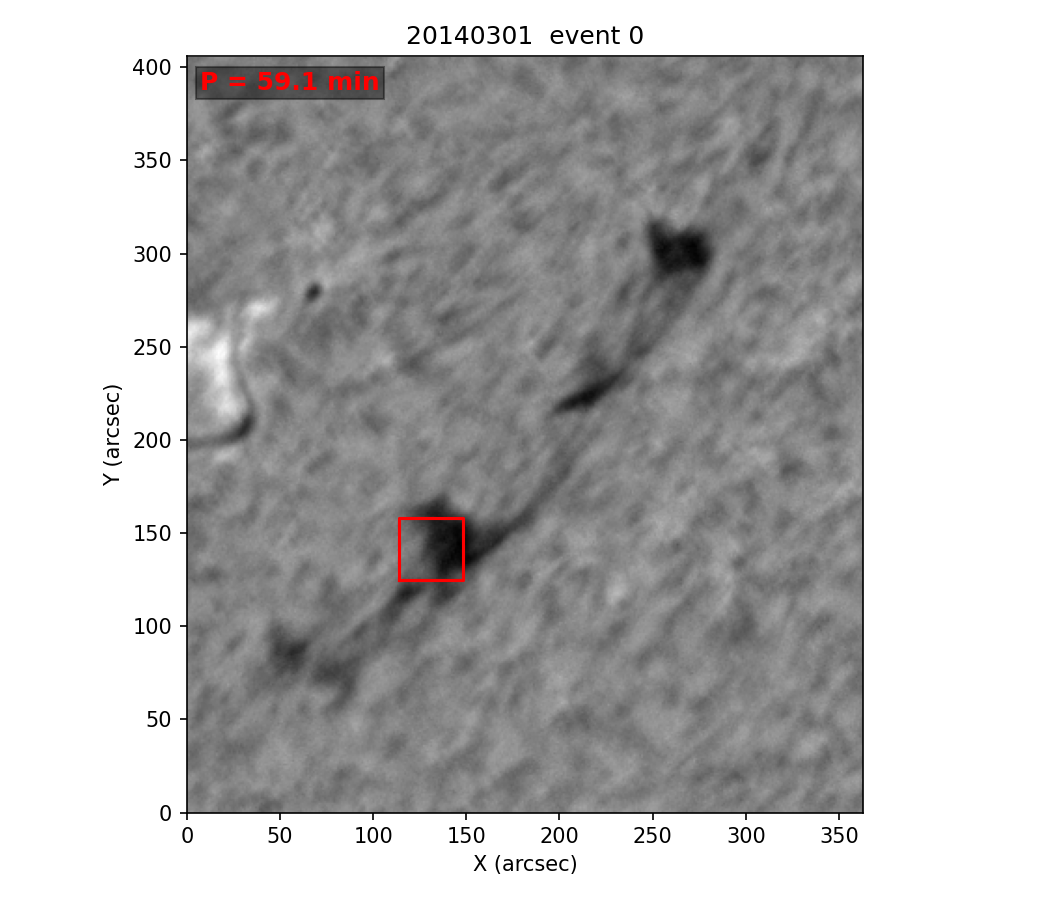
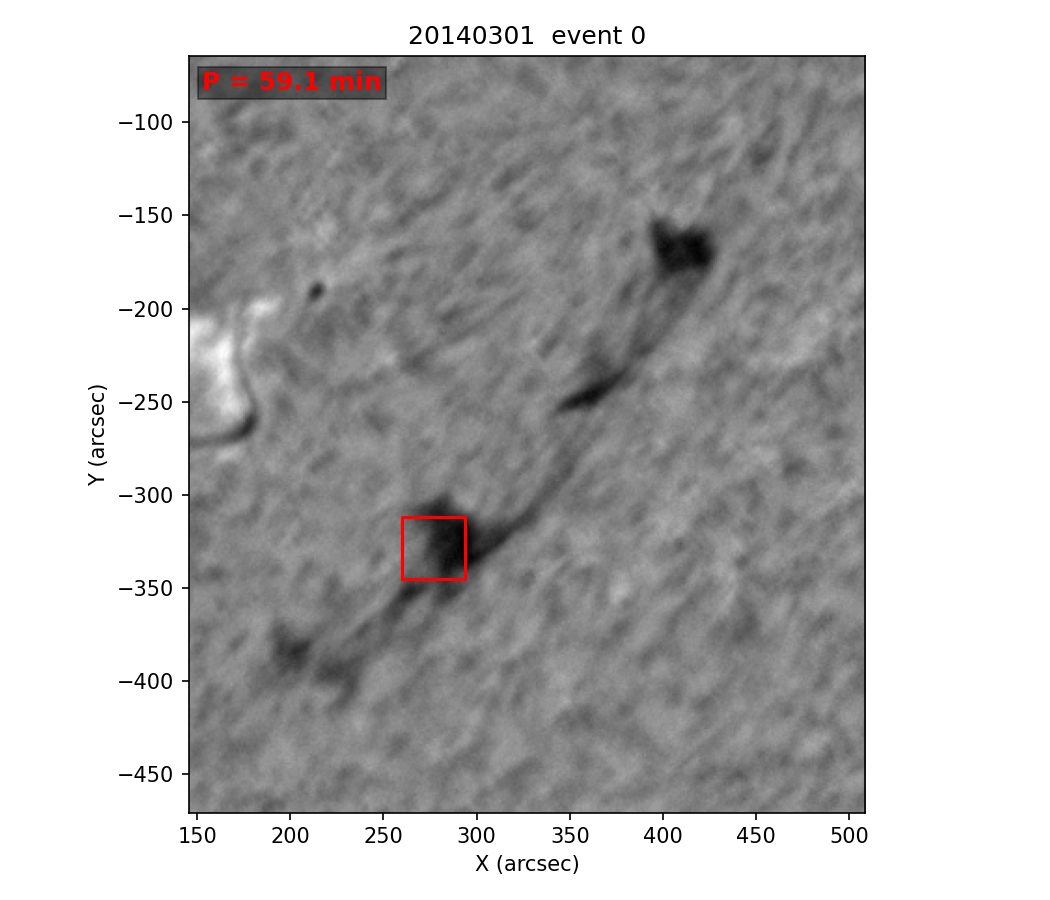
fixed result plots ticklabels

diff --git a/src/solfilosc/analysis/plotting.py b/src/solfilosc/analysis/plotting.py
@@ -9,7 +9,7 @@ matplotlib.use("Agg")
 import matplotlib.pyplot as plt
 import numpy as np
 
-from .constants import CNN_FREQUENCY_GRID
+from .constants import CNN_FREQUENCY_GRID, DISK_CENTER_PX
 
 def plot_full_disk_filaments_bboxes(outpath, image0, mask0, bboxes, *, title):
     fig = plt.figure(figsize=(10, 10))
@@ -215,17 +215,25 @@ def plot_period_family_spatial_maps(outdir, roi_img0, union_mask, scales, detect
 
 def plot_event(outpath, roi_image0, roi_bbox, event_bbox_full, period_min, *, day, event_index):
     """Plot one detected event: the filament cropped to its bbox with a red box marking the
-    event region and the period printed in red. Axes are labeled in arcsec (1 px = 1 arcsec)."""
+    event region and the period printed in red. Axes are heliocentric arcsec: 1 px = 1 arcsec
+    with disk-center pixel (DISK_CENTER_PX, DISK_CENTER_PX) at (0, 0) arcsec."""
     crop_H, crop_W = roi_image0.shape
 
-    # Event bbox is in full-disk pixels; convert to crop-relative coordinates.
-    e_min_y = event_bbox_full[0] - roi_bbox["min_y"]
-    e_min_x = event_bbox_full[1] - roi_bbox["min_x"]
-    e_max_y = event_bbox_full[2] - roi_bbox["min_y"]
-    e_max_x = event_bbox_full[3] - roi_bbox["min_x"]
+    # Crop origin in arcsec; the -0.5 in the extent keeps pixel centers at integer arcsec.
+    x0 = roi_bbox["min_x"] - DISK_CENTER_PX
+    y0 = roi_bbox["min_y"] - DISK_CENTER_PX
+
+    # Event bbox is in full-disk pixels; convert to arcsec.
+    e_min_y = event_bbox_full[0] - DISK_CENTER_PX
+    e_min_x = event_bbox_full[1] - DISK_CENTER_PX
+    e_max_y = event_bbox_full[2] - DISK_CENTER_PX
+    e_max_x = event_bbox_full[3] - DISK_CENTER_PX
 
     fig, ax = plt.subplots(figsize=(7, 6))
-    ax.imshow(roi_image0, cmap="gray", origin="lower")
+    ax.imshow(
+        roi_image0, cmap="gray", origin="lower",
+        extent=(x0 - 0.5, x0 + crop_W - 0.5, y0 - 0.5, y0 + crop_H - 0.5),
+    )
 
     ax.plot(
         [e_min_x, e_max_x, e_max_x, e_min_x, e_min_x],
@@ -240,8 +248,8 @@ def plot_event(outpath, roi_image0, roi_bbox, event_bbox_full, period_min, *, da
         bbox=dict(facecolor="black", alpha=0.4, pad=2.0),
     )
 
-    ax.set_xlim(0, crop_W)
-    ax.set_ylim(0, crop_H)
+    ax.set_xlim(x0 - 0.5, x0 + crop_W - 0.5)
+    ax.set_ylim(y0 - 0.5, y0 + crop_H - 0.5)
     ax.set_xlabel("X (arcsec)")
     ax.set_ylabel("Y (arcsec)")
     ax.set_title(f"{day}  event {event_index}")

diff --git a/src/solfilosc/analysis/constants.py b/src/solfilosc/analysis/constants.py
@@ -4,6 +4,7 @@ import numpy as np
 
 N_FILAMENT_WORKERS = 64
 N_PIXEL_WORKERS = 64
+DISK_CENTER_PX = 1023  # full-disk pixel of disk center: (1023, 1023) px = (0, 0) arcsec, 1 px = 1 arcsec
 CNN_FREQUENCY_GRID = np.linspace(1 / (1440 * 60), 1 / 120, 2000).astype(np.float32)
 CP_DELTA = 0.0000006
 DETECTION_FMIN_HZ = 1.0 / (3.0 * 3600.0)
